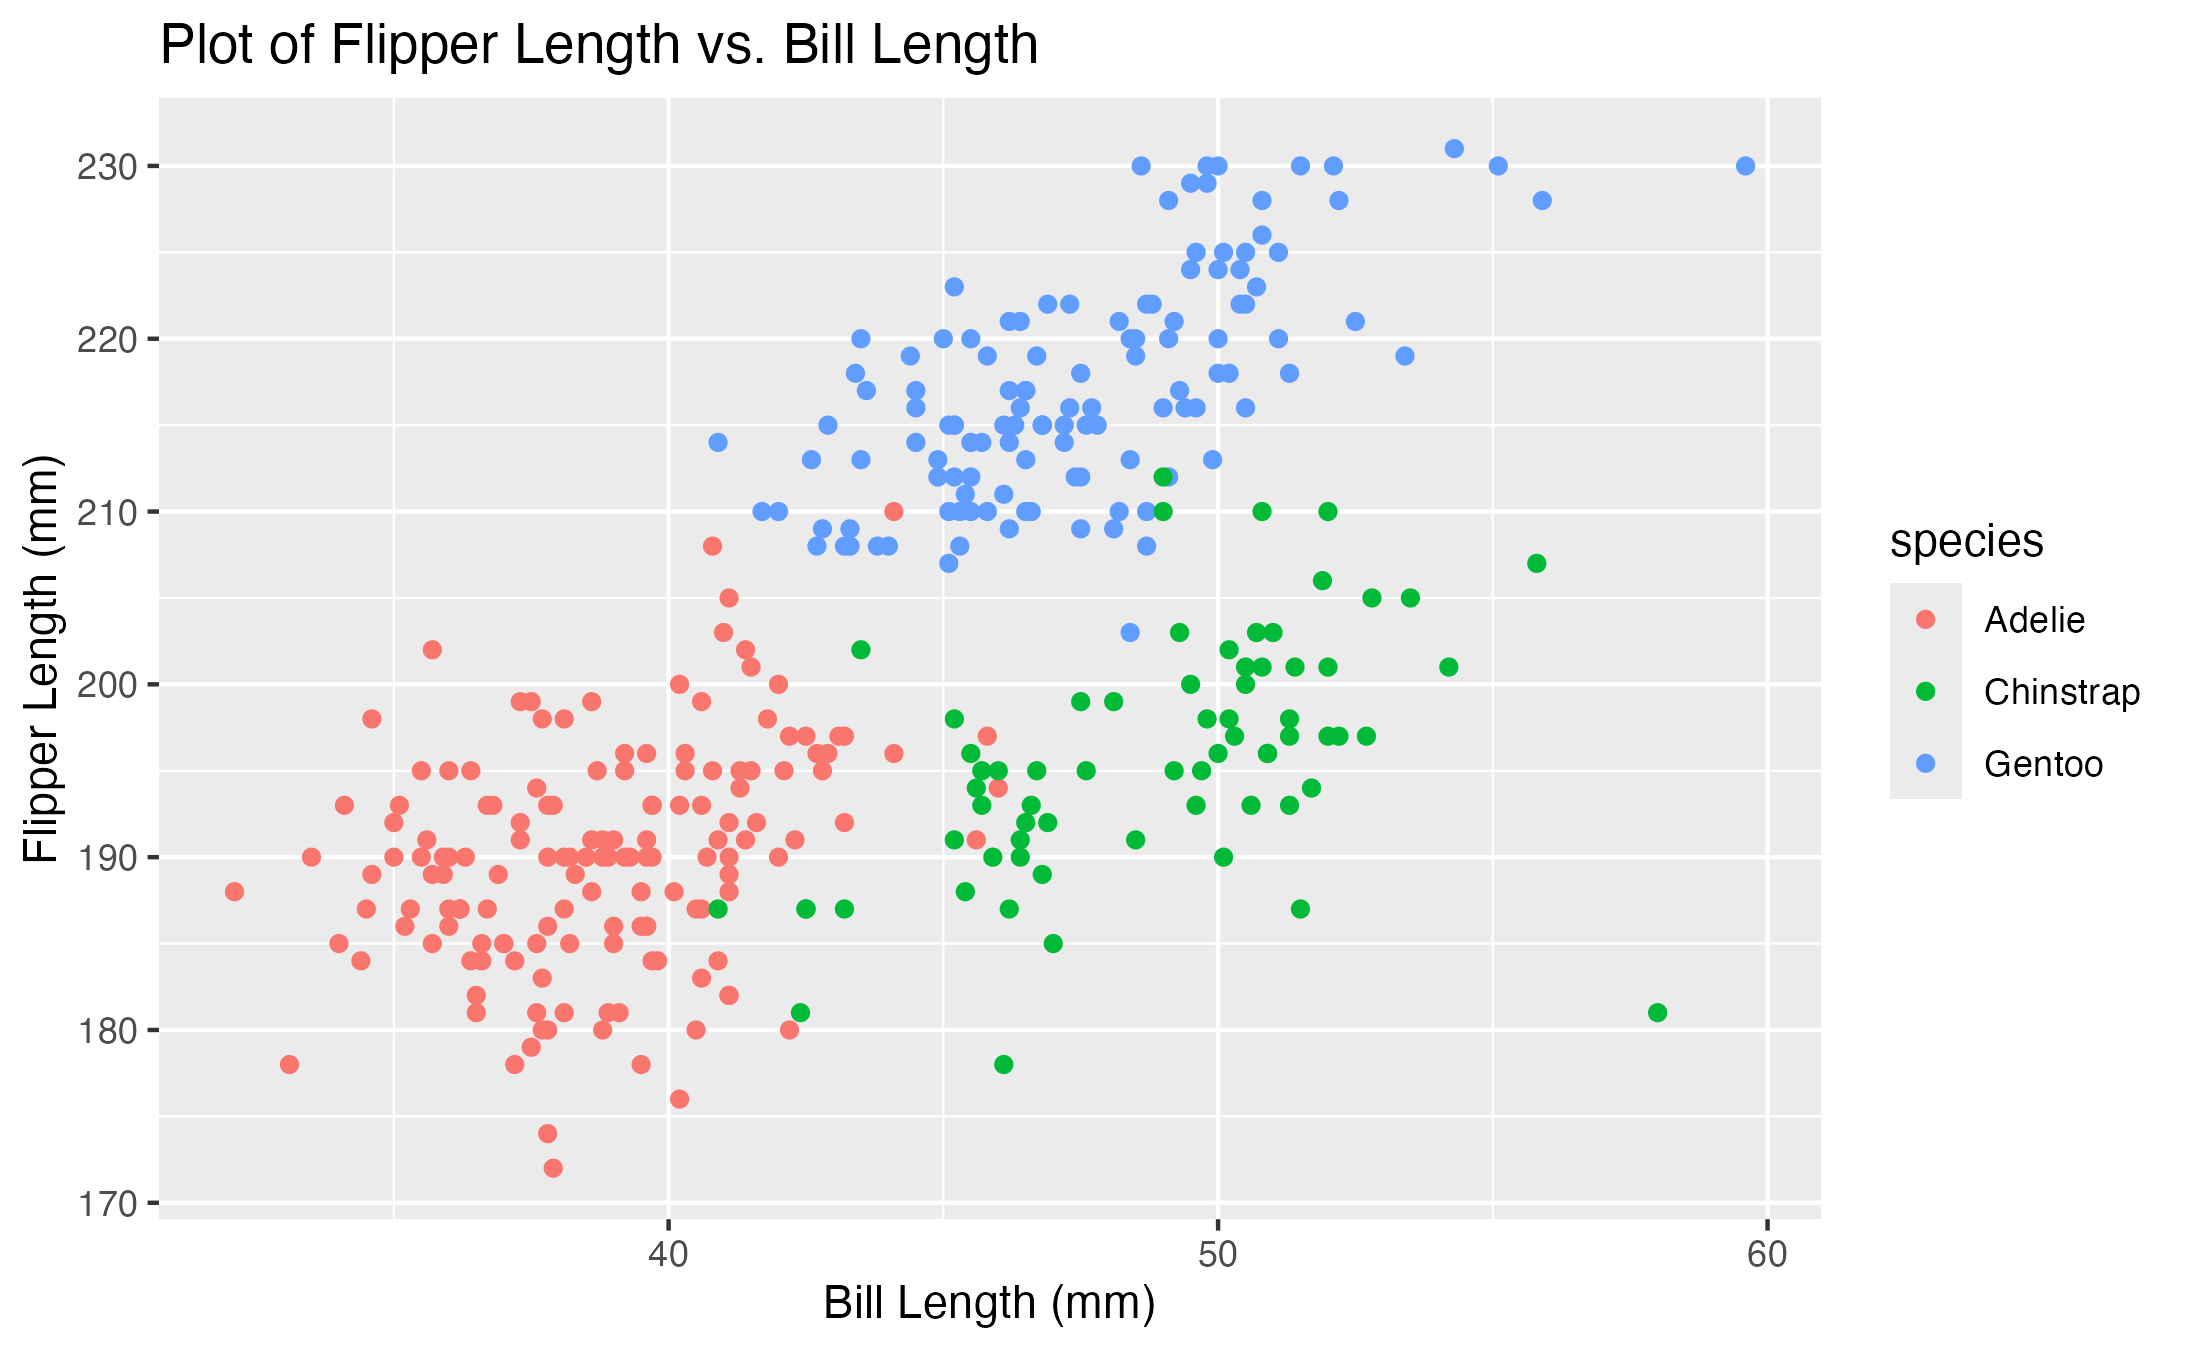
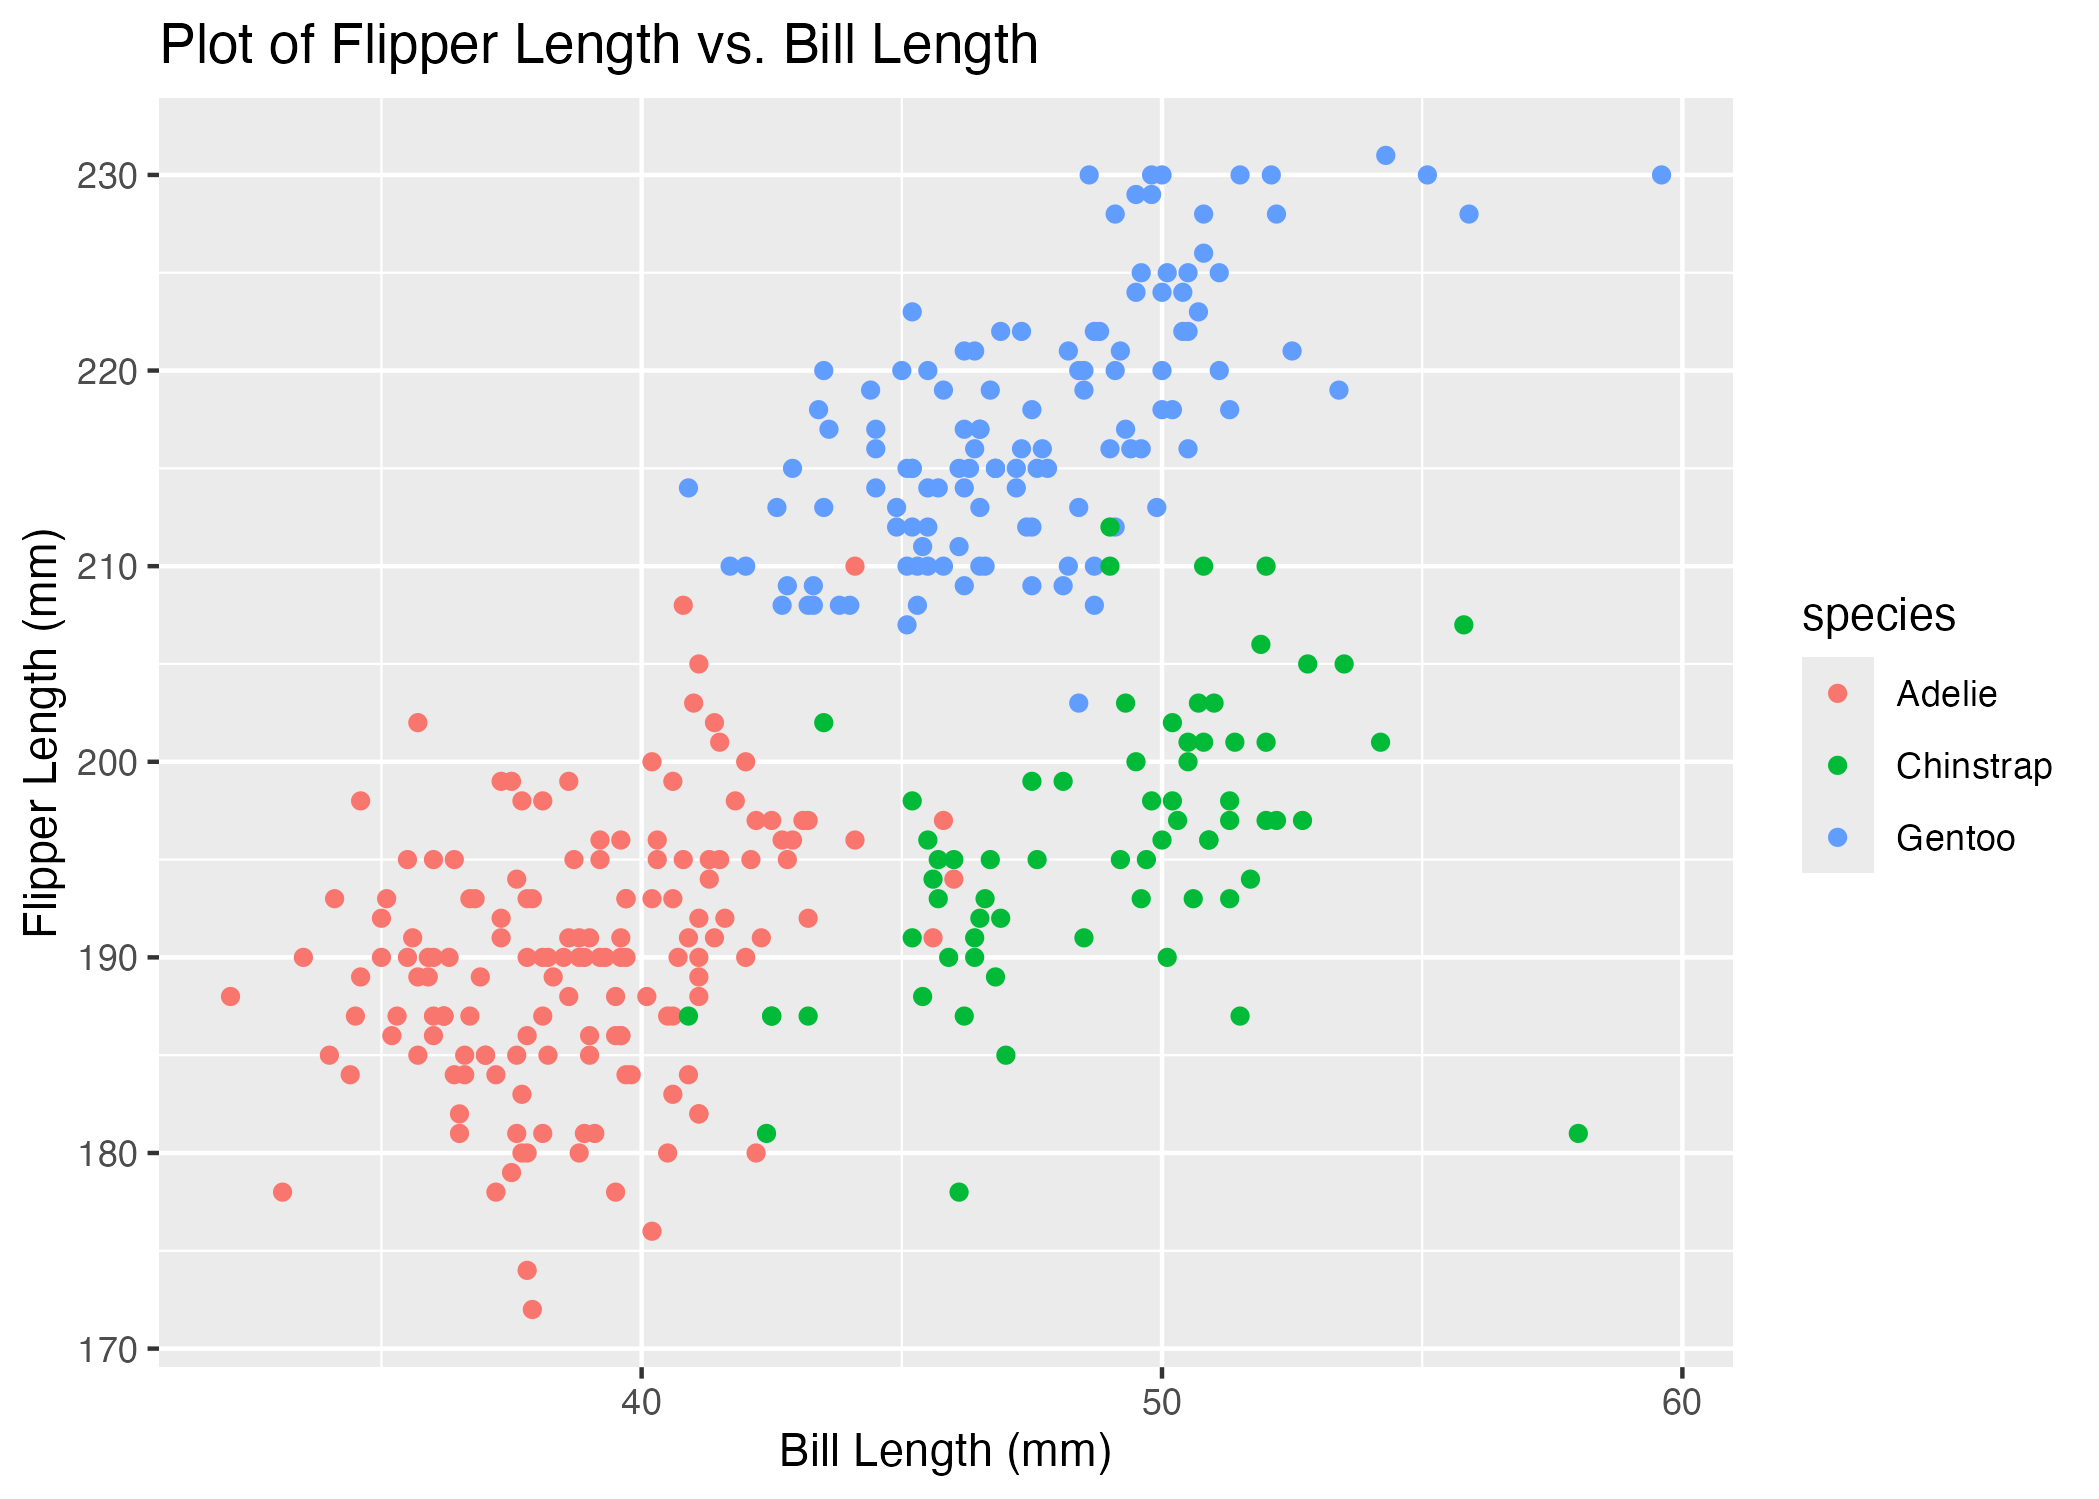
finished problem 2

diff --git a/p8105_hw1_jl7033.md b/p8105_hw1_jl7033.md
@@ -3,7 +3,7 @@ p8105_hw1_jl7033
 Joe LaRocca
 2024-09-19
 
-## Upload Palmer Penguins Data
+## Problem 1
 
 ``` r
 data("penguins", package = "palmerpenguins")
@@ -37,5 +37,94 @@ The dataset has 344 rows, meaning that there are 344 penguins in the
 dataset. It has 8 columns, so there are a total of 8 variables being
 measured.
 
-The mean flipper length is 200.92 mm, not including penguins for which
-the flipper length value is missing.
+The mean flipper length is about 200.92 mm, not including penguins for
+which the flipper length value is missing.
+
+``` r
+flipper_bill_plot = ggplot(data = penguins, 
+       aes(x = bill_length_mm, 
+           y = flipper_length_mm,
+           col = species)) + 
+  geom_point() + 
+  labs(title = "Plot of Flipper Length vs. Bill Length",
+       x = "Bill Length (mm)",
+       y = "Flipper Length (mm)")
+
+flipper_bill_plot
+```
+
+    ## Warning: Removed 2 rows containing missing values or values outside the scale range
+    ## (`geom_point()`).
+
+![](p8105_hw1_jl7033_files/figure-gfm/unnamed-chunk-2-1.png)<!-- -->
+
+``` r
+ggsave(filename = "flipper_bill_plot.png",
+  plot = flipper_bill_plot)
+```
+
+    ## Saving 7 x 5 in image
+
+    ## Warning: Removed 2 rows containing missing values or values outside the scale range
+    ## (`geom_point()`).
+
+## Problem 2
+
+``` r
+problem_2_df = tibble(
+  random_normal = rnorm(10, mean = 0, sd = 1),
+  logical = random_normal > 0,
+  character = c("a", "b", "c", "d", "e", "f", "g", "h", "i", "j"),
+  factor = factor(
+    c("High", "Medium", "Low", "Low", "Medium", 
+      "Medium", "High", "Low", "High", "Low"))
+)
+
+problem_2_df
+```
+
+    ## # A tibble: 10 × 4
+    ##    random_normal logical character factor
+    ##            <dbl> <lgl>   <chr>     <fct> 
+    ##  1        1.18   TRUE    a         High  
+    ##  2        1.80   TRUE    b         Medium
+    ##  3        0.291  TRUE    c         Low   
+    ##  4       -0.335  FALSE   d         Low   
+    ##  5        0.198  TRUE    e         Medium
+    ##  6        0.475  TRUE    f         Medium
+    ##  7        0.484  TRUE    g         High  
+    ##  8        0.677  TRUE    h         Low   
+    ##  9       -1.67   FALSE   i         High  
+    ## 10        0.0566 TRUE    j         Low
+
+##### Take the mean of the standard Normal and Logical column
+
+``` r
+problem_2_df %>% 
+  pull(random_normal) %>% 
+  mean()
+```
+
+    ## [1] 0.315678
+
+``` r
+problem_2_df %>% 
+  pull(logical) %>% 
+  mean()
+```
+
+    ## [1] 0.8
+
+The means of the `random_normal` and `logical` columns are 0.315678 and
+0.8 respectively. The `character` and `factor` columns have no defined
+mean; when I try to take their mean, I get an error message saying that
+the argument is not numeric or logical.
+
+##### Try converting variables using as.numeric()
+
+``` r
+problem_2_df %>% 
+  mutate(logical = as.numeric(logical)) %>% 
+  mutate(character = as.numeric(character)) %>% 
+  mutate(factor = as.numeric(factor))
+```
